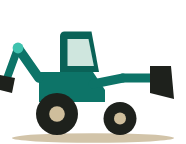
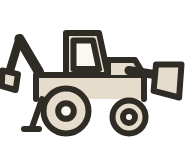
Ana sayfa: sade tek renkli kategori çizimleri (beko loder yeniden), hizmetler eş boyutlu 2x3 ızgara, bölüm başlıklarında görünür düğmeler
Claude-Session: https://claude.ai/code/session_01NuNYwfDyxKG5uoT4LbL8bH

diff --git a/mobile/app/(tabs)/index.tsx b/mobile/app/(tabs)/index.tsx
@@ -9,7 +9,7 @@ import { Btn } from '../../components/ui';
 import { AlertBox, CardSkeleton } from '../../components/kit';
 import { FirmCard, PostCard } from '../../components/NetCards';
 import { Icon, type IconName } from '../../components/Icon';
-import { activePalette, color, font, radius } from '../../lib/theme';
+import { color, font, radius } from '../../lib/theme';
 import { useLang } from '../../lib/lang';
 import { tr } from '../../lib/i18n';
 import { displayName, firstName } from '../../lib/person';
@@ -17,14 +17,13 @@ import { useApp } from '../../lib/AppContext';
 import { type MarketPost, type Provider } from '../../lib/network';
 import { supabase, type Row } from '../../lib/supabase';
 
-/** Kategori şeridi: iki tonlu çizimler (Bordo temada bordo tonlarıyla). */
-const B = activePalette === 'bordo';
+/** Kategori şeridi: sade, tek renkli çizimler (her temada aynı). */
 const CATS: { label: string; cat: string; img: ImageSourcePropType }[] = [
-  { label: 'Ekskavatör', cat: 'group:excavators', img: B ? require('../../assets/cat/excavator-bordo.png') : require('../../assets/cat/excavator.png') },
-  { label: 'Beko loder', cat: 'group:loaders', img: B ? require('../../assets/cat/loader-bordo.png') : require('../../assets/cat/loader.png') },
-  { label: 'Kamyon', cat: 'group:trucks', img: B ? require('../../assets/cat/truck-bordo.png') : require('../../assets/cat/truck.png') },
-  { label: 'Vinç', cat: 'group:cranes', img: B ? require('../../assets/cat/crane-bordo.png') : require('../../assets/cat/crane.png') },
-  { label: 'Parça, lastik', cat: 'group:parts', img: B ? require('../../assets/cat/parts-bordo.png') : require('../../assets/cat/parts.png') },
+  { label: 'Ekskavatör', cat: 'group:excavators', img: require('../../assets/cat/excavator.png') },
+  { label: 'Beko loder', cat: 'group:loaders', img: require('../../assets/cat/loader.png') },
+  { label: 'Kamyon', cat: 'group:trucks', img: require('../../assets/cat/truck.png') },
+  { label: 'Vinç', cat: 'group:cranes', img: require('../../assets/cat/crane.png') },
+  { label: 'Parça, lastik', cat: 'group:parts', img: require('../../assets/cat/parts.png') },
 ];
 const net = (kind: string) => () => router.navigate({ pathname: '/is-agi', params: { kind } });
 
@@ -32,7 +31,12 @@ function SectionHead({ title, action, onAction }: { title: string; action?: stri
   return (
     <View style={s.secHead}>
       <Text style={s.secTitle}>{title}</Text>
-      {action ? <Pressable onPress={onAction} hitSlop={10} accessibilityRole="button"><Text style={s.secAction}>{action}</Text></Pressable> : null}
+      {action ? (
+        <Pressable onPress={onAction} hitSlop={8} accessibilityRole="button" style={({ pressed }) => [s.secBtn, pressed && { opacity: 0.7 }]}>
+          <Text style={s.secAction}>{action}</Text>
+          <Icon name="chevron-right" size={15} color={color.tealText} />
+        </Pressable>
+      ) : null}
     </View>
   );
 }
@@ -137,52 +141,28 @@ export default function Home() {
         </Pressable>
       </ScrollView>
 
-      {/* Hizmetler: önem sırasına göre üç kat */}
-      <SectionHead title="Hizmetler" action="İş Ağı'na git" onAction={() => router.navigate('/is-agi')} />
+      {/* Hizmetler: eş boyutlu, iki sütunlu düzenli ızgara */}
+      <SectionHead title="Hizmetler" action="İş Ağı" onAction={() => router.navigate('/is-agi')} />
       <View style={s.svc}>
-        <View style={s.svcRow}>
-          <Pressable style={({ pressed }) => [s.big, { backgroundColor: color.navyDeep }, pressed && { opacity: 0.9 }]} onPress={net('rental_machine')} accessibilityRole="button">
-            <View style={[s.bigIcon, { backgroundColor: 'rgba(255,255,255,0.08)' }]}><Icon name="calendar" size={21} color={color.tealBright} /></View>
-            <View style={{ gap: 2 }}>
-              <Text style={s.bigT}>Kiralık makine</Text>
-              <Text style={[s.bigS, { color: color.onDeepMuted }]}>Günlük, aylık · operatörlü</Text>
-            </View>
-          </Pressable>
-          <Pressable style={({ pressed }) => [s.big, { backgroundColor: color.teal }, pressed && { opacity: 0.9 }]} onPress={net('rental_operator')} accessibilityRole="button">
-            <View style={[s.bigIcon, { backgroundColor: 'rgba(255,255,255,0.14)' }]}><Icon name="user-check" size={21} color={color.tealInk} /></View>
-            <View style={{ gap: 2 }}>
-              <Text style={s.bigT}>Operatör ve usta</Text>
-              <Text style={[s.bigS, { color: 'rgba(255,255,255,0.88)' }]}>Şoför, operatör, servis</Text>
-            </View>
-          </Pressable>
-        </View>
-        <View style={s.svcRow}>
-          {([
-            ['Çekici bul', 'truck', () => router.push('/cekici' as never), '7/24', 'bad'],
-            ['Açık artırma', 'award', () => router.push('/acik-artirmalar' as never), live ? `${live} ${tr('canlı')}` : '', 'good'],
-            ['İş talepleri', 'clipboard', net('job'), '', ''],
-          ] as [string, IconName, () => void, string, string][]).map(([t, ic, go, tag, tone]) => (
-            <Pressable key={t} style={({ pressed }) => [s.mid, pressed && { opacity: 0.88 }]} onPress={go} accessibilityRole="button">
-              <View style={s.midTop}>
-                <Icon name={ic} size={22} color={color.tealText} />
-                {tag ? <View style={[s.tag, { backgroundColor: tone === 'bad' ? color.badBg : color.goodBg }]}><PlainText style={[s.tagT, { color: tone === 'bad' ? color.bad : color.good }]}>{tag}</PlainText></View> : null}
+        {([
+          ['Kiralık makine', 'Günlük, aylık · operatörlü', 'calendar', net('rental_machine'), ''],
+          ['Operatör ve usta', 'Şoför, operatör, servis', 'user-check', net('rental_operator'), ''],
+          ['Çekici bul', 'En yakın, puanlı', 'truck', () => router.push('/cekici' as never), '7/24'],
+          ['Açık artırma', 'Teklif ver, kazan', 'award', () => router.push('/acik-artirmalar' as never), live ? `${live} ${tr('canlı')}` : ''],
+          ['İş talepleri', 'Teklif ver, işi al', 'clipboard', net('job'), ''],
+          ['Parça talebi', 'Aradığın parçayı yaz', 'search', net('part_request'), ''],
+        ] as [string, string, IconName, () => void, string][]).map(([t, sub, ic, go, tag]) => (
+          <Pressable key={t} style={({ pressed }) => [s.svcCard, pressed && { opacity: 0.88 }]} onPress={go} accessibilityRole="button">
+            <View style={s.svcIcon}><Icon name={ic} size={20} color={color.tealText} /></View>
+            <View style={{ flex: 1, gap: 1 }}>
+              <View style={{ flexDirection: 'row', alignItems: 'center', gap: 6 }}>
+                <Text style={s.svcT} numberOfLines={1}>{t}</Text>
+                {tag ? <View style={s.tag}><PlainText style={s.tagT}>{tag}</PlainText></View> : null}
               </View>
-              <Text style={s.midT} numberOfLines={2}>{t}</Text>
-            </Pressable>
-          ))}
-        </View>
-        <View style={s.svcRow}>
-          {([
-            ['Parça talebi', 'search', net('part_request')],
-            ['Şirketler', 'briefcase', net('firma')],
-            ['İllere göre', 'map-pin', () => router.push('/harita' as never)],
-          ] as [string, IconName, () => void][]).map(([t, ic, go]) => (
-            <Pressable key={t} style={({ pressed }) => [s.pill, pressed && { opacity: 0.85 }]} onPress={go} accessibilityRole="button">
-              <Icon name={ic} size={15} color={color.tealText} />
-              <Text style={s.pillT} numberOfLines={1}>{t}</Text>
-            </Pressable>
-          ))}
-        </View>
+              <Text style={s.svcS} numberOfLines={1}>{sub}</Text>
+            </View>
+          </Pressable>
+        ))}
       </View>
 
       {/* Giriş yapmışsa: tek satır özet; misafirse giriş çağrısı */}
@@ -282,22 +262,17 @@ const s = StyleSheet.create({
   catTile: { width: 78, height: 70, borderRadius: 20, backgroundColor: color.tile, borderWidth: 1, borderColor: color.line, alignItems: 'center', justifyContent: 'center' },
   catImg: { width: 62, height: 48 },
   catLabel: { fontFamily: font.semi, fontSize: 12.5, color: color.ink },
-  secHead: { flexDirection: 'row', alignItems: 'baseline', justifyContent: 'space-between', marginHorizontal: 16, marginTop: 24, marginBottom: 10 },
+  secHead: { flexDirection: 'row', alignItems: 'center', justifyContent: 'space-between', marginHorizontal: 16, marginTop: 24, marginBottom: 10 },
   secTitle: { fontFamily: font.bold, fontSize: 21, color: color.ink, flexShrink: 1 },
-  secAction: { fontFamily: font.semi, fontSize: 14, color: color.tealText },
-  svc: { marginHorizontal: 16, gap: 10 },
-  svcRow: { flexDirection: 'row', gap: 10 },
-  big: { flex: 1, minHeight: 116, padding: 14, borderRadius: radius + 6, justifyContent: 'space-between', gap: 10 },
-  bigIcon: { width: 40, height: 40, borderRadius: 12, alignItems: 'center', justifyContent: 'center' },
-  bigT: { fontFamily: font.bold, fontSize: 19, lineHeight: 22, color: color.accentInk },
-  bigS: { fontSize: 12.5 },
-  mid: { flex: 1, padding: 12, gap: 8, borderRadius: radius + 4, backgroundColor: color.surface, borderWidth: 1, borderColor: color.line },
-  midTop: { flexDirection: 'row', alignItems: 'center', justifyContent: 'space-between', gap: 4 },
-  midT: { fontFamily: font.bold, fontSize: 16, lineHeight: 18, color: color.ink },
-  tag: { borderRadius: 6, paddingHorizontal: 5, paddingVertical: 2 },
-  tagT: { fontFamily: font.textBold, fontSize: 10 },
-  pill: { flex: 1, height: 44, borderRadius: 22, backgroundColor: color.plate, flexDirection: 'row', alignItems: 'center', justifyContent: 'center', gap: 6, paddingHorizontal: 6 },
-  pillT: { fontFamily: font.semi, fontSize: 13, color: color.ink, flexShrink: 1 },
+  secBtn: { flexDirection: 'row', alignItems: 'center', gap: 2, height: 32, paddingLeft: 12, paddingRight: 8, borderRadius: 16, backgroundColor: color.tealSoft },
+  secAction: { fontFamily: font.semi, fontSize: 13.5, color: color.tealText },
+  svc: { marginHorizontal: 16, flexDirection: 'row', flexWrap: 'wrap', justifyContent: 'space-between', rowGap: 10 },
+  svcCard: { width: '48.5%', minHeight: 66, flexDirection: 'row', alignItems: 'center', gap: 10, paddingVertical: 10, paddingHorizontal: 10, borderRadius: radius + 4, backgroundColor: color.surface, borderWidth: 1, borderColor: color.line },
+  svcIcon: { width: 38, height: 38, borderRadius: 12, backgroundColor: color.tealSoft, alignItems: 'center', justifyContent: 'center' },
+  svcT: { fontFamily: font.bold, fontSize: 15.5, lineHeight: 18, color: color.ink, flexShrink: 1 },
+  svcS: { fontSize: 12, color: color.muted },
+  tag: { borderRadius: 6, paddingHorizontal: 5, paddingVertical: 1, backgroundColor: color.plate },
+  tagT: { fontFamily: font.textBold, fontSize: 9.5, color: color.ink },
   sum: { flexDirection: 'row', marginHorizontal: 16, marginTop: 16, backgroundColor: color.surface, borderRadius: radius + 4, borderWidth: 1, borderColor: color.line },
   sumCell: { flex: 1, paddingVertical: 12, paddingHorizontal: 14, gap: 2 },
   sumSep: { borderLeftWidth: 1, borderLeftColor: color.line },
